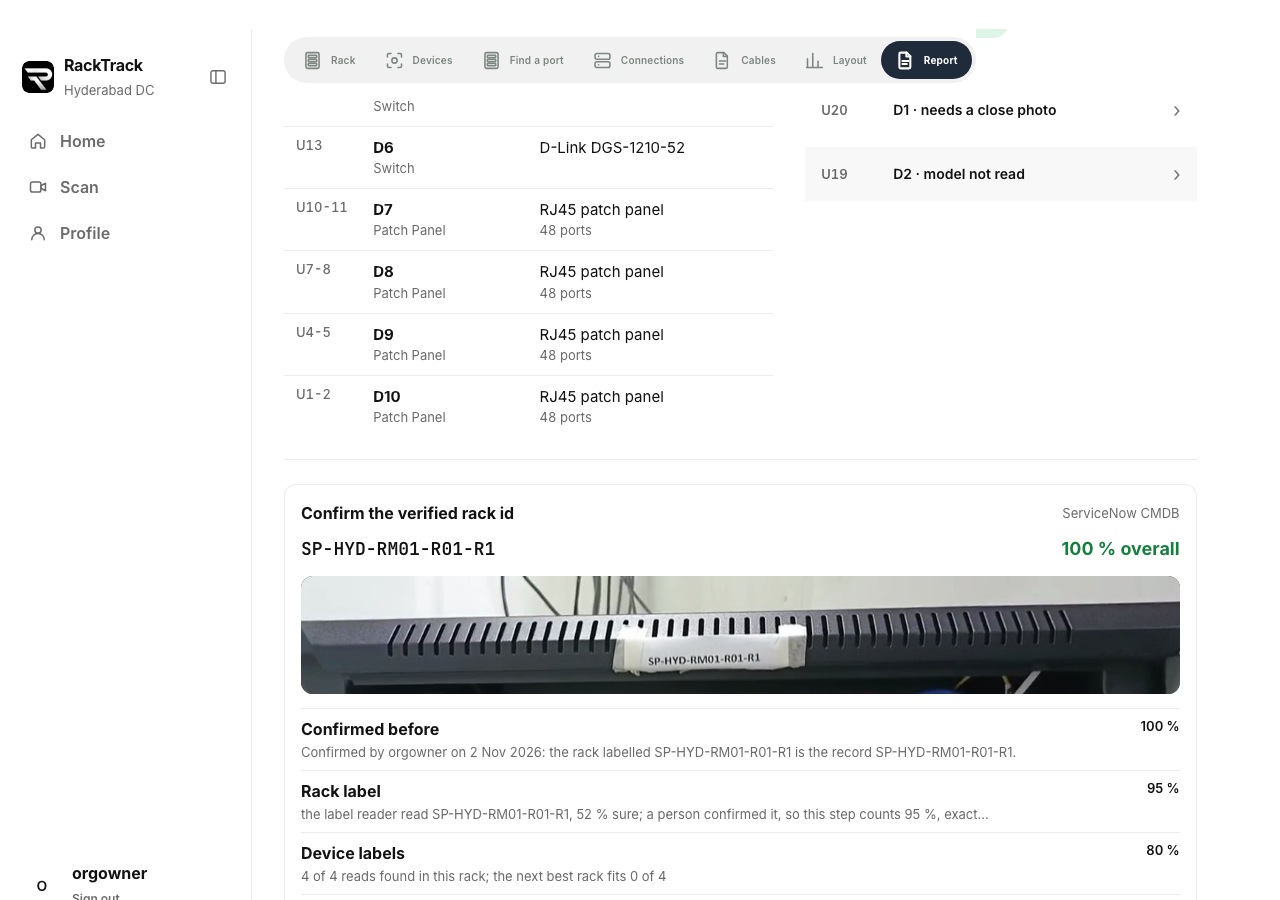
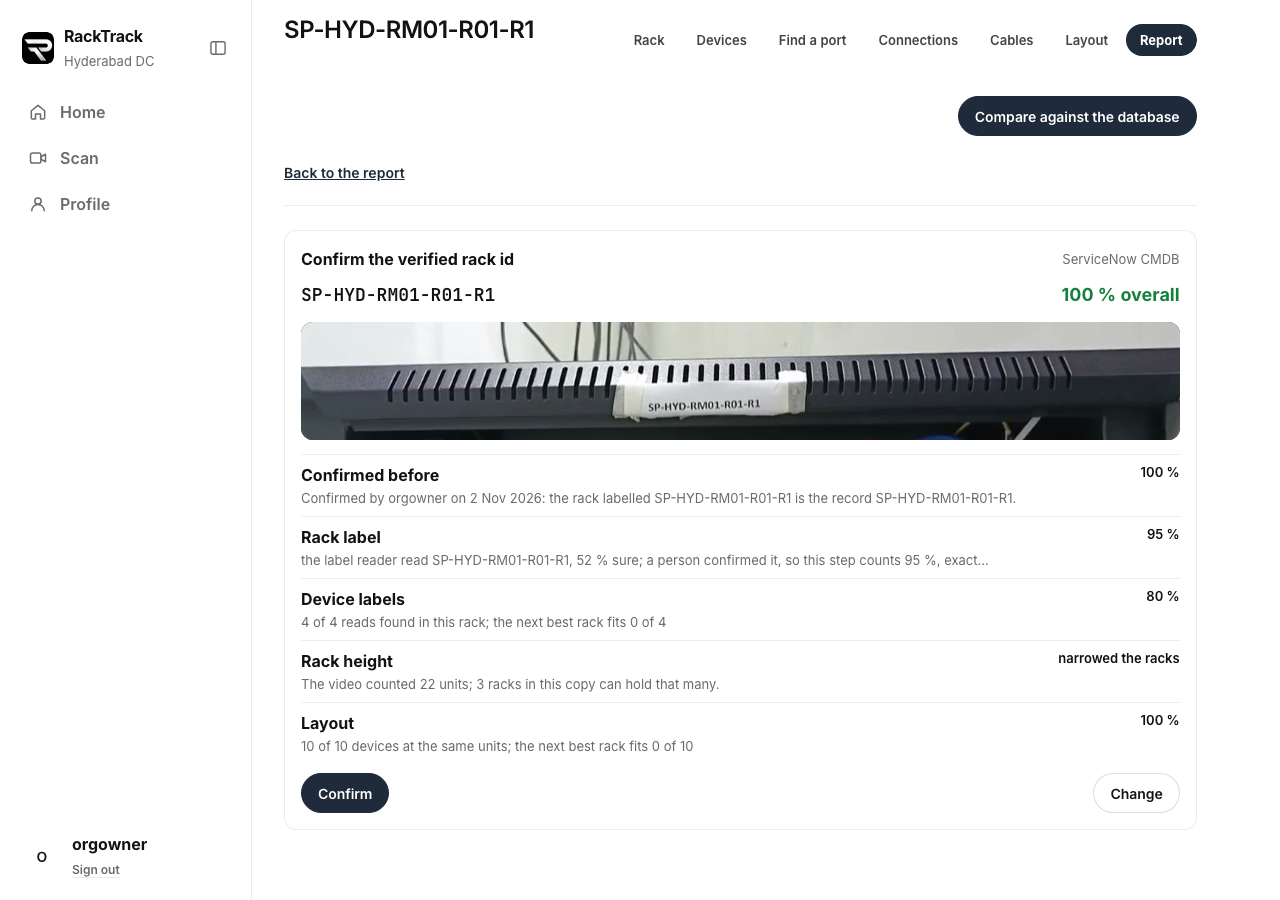
Compare takes over the top of the Report: the summary and device table step aside with a Back to the report link, the status line shows at once on the click, then the confirm panel and the drift, and the page scrolls to the top

diff --git a/mobile/app.js b/mobile/app.js
@@ -548,7 +548,7 @@
   function openResult(id, tab) {
     if (!id) return go('history');
     var fresh = RES.id !== id;
-    if (fresh) { RES.sel = null; RES.view = null; RES.pick = null; RES.labelAsked = null; RES.cmp = null; RES.cmpSrc = null; RES.cmpUi = 'idle'; RES.cmpPick = false; RES.diffMode = null; $('cmp-menu').hidden = true; $('sec-tools').hidden = true; $('df-top').innerHTML = ''; $('diff-top').innerHTML = ''; }
+    if (fresh) { RES.cmpUi = 'idle'; if (typeof cmpMode === 'function') cmpMode(false); RES.sel = null; RES.view = null; RES.pick = null; RES.labelAsked = null; RES.cmp = null; RES.cmpSrc = null; RES.cmpUi = 'idle'; RES.cmpPick = false; RES.diffMode = null; $('cmp-menu').hidden = true; $('sec-tools').hidden = true; $('df-top').innerHTML = ''; $('diff-top').innerHTML = ''; }
     RES.id = id; clearInterval(RES.timer); remember(id);
     RES.tab = tab; $('res-eyebrow').textContent = 'Result'; $('rep-full').hidden = NATIVE;   // only the open tab shows (data-tab)
     loadView(true);
@@ -917,6 +917,8 @@
   function loadDrift() { var id = RES.id; api('/api/video/' + id + '/drift').then(function (d) { if (RES.id === id) renderCompare(d); }).catch(function (e) { $('df-top').innerHTML = '<p class="err">' + esc(e.message) + '</p>'; }); }
   // one line under the compare button: a spinner while something runs, one sentence if it fails
   function cmpStatus(text, kind) { var el = $('cmp-status'); if (!el) return; if (!text) { el.hidden = true; el.innerHTML = ''; return; } el.hidden = false; el.className = 'cmpstatus ' + (kind || ''); el.setAttribute('role', kind === 'err' ? 'alert' : 'status'); el.innerHTML = (kind === 'err' ? '' : '<span class="spin" aria-hidden="true"></span>') + '<span>' + esc(text) + '</span>'; }
+  // while a database is being compared, the compare owns the top of the Report: the summary and device table step aside
+  function cmpMode(on) { var r = $('res-report'); if (!r) return; r.classList.toggle('cmp-on', !!on); $('cmp-back').hidden = !on; if (on) { cmpStatus('Starting...'); window.scrollTo(0, 0); } else { cmpStatus(''); $('df-top').innerHTML = ''; $('diff-top').innerHTML = ''; } }
   function setDb(body) { return api('/api/video/' + RES.id + '/database', { method: 'POST', headers: { 'Content-Type': 'application/json' }, body: JSON.stringify(body) }).then(function (d) { cmpStatus(''); renderCompare(d); return d; }).catch(function (e) { cmpStatus(String(e.message || 'The compare did not run.').replace(/\s*$/, '').replace(/([^.!?])$/, '$1.'), 'err'); }); }
   function copyWhen(d, s) { return d.imported[s] ? 'copy of ' + when(d.imported[s]) : 'no copy yet'; }
   var SRCLABEL = { excel: 'Excel workbook', netbox: 'NetBox', cmdb: 'ServiceNow CMDB' };
@@ -960,17 +962,17 @@
     if (d.drift.notes.length) h += '<details class="card"><summary>Not checked (' + d.drift.notes.length + ')</summary><ul class="muted small">' + d.drift.notes.map(function (n) { return '<li>' + esc(n) + '</li>'; }).join('') + '</ul></details>';
     el.innerHTML = h;
   }
-    document.addEventListener('click', function (e) { var t = e.target.closest && e.target.closest('#cmp-btn, #more-link, #cmp-change, [data-cmpsrc], #cmp-use, #cmp-continue, [data-cmppick], [data-dfmode]'); if (!t) return;
+    document.addEventListener('click', function (e) { var t = e.target.closest && e.target.closest('#cmp-btn, #cmp-back, #more-link, #cmp-change, [data-cmpsrc], #cmp-use, #cmp-continue, [data-cmppick], [data-dfmode]'); if (!t) return;
+    if (t.id === 'cmp-back') { e.preventDefault(); RES.cmpUi = 'idle'; cmpMode(false); window.scrollTo(0, 0); return; }
     if (t.id === 'cmp-btn') { var mn = $('cmp-menu'); mn.hidden = !mn.hidden; t.setAttribute('aria-expanded', String(!mn.hidden)); return; }
     if (t.id === 'more-link') { e.preventDefault(); var st = $('sec-tools'); st.hidden = !st.hidden; if (!st.hidden) { if (window.RTFEAT && !$('res-tools').children.length) window.RTFEAT.fillResult(RES.id); st.scrollIntoView({ block: 'nearest' }); } return; }
     if (t.id === 'cmp-change') { RES.cmpPick = !RES.cmpPick; renderCompare(RES.cmp); var ty0 = $('cmp-type'); if (ty0) ty0.focus(); return; }
     var src = RES.cmpSrc || (RES.cmp && RES.cmp.source) || 'excel';
     if (t.dataset.dfmode) { RES.diffMode = t.dataset.dfmode; return renderDiff(RES.cmp, true); }
-    if (t.dataset.cmpsrc) { src = t.dataset.cmpsrc; RES.cmpSrc = src; $('cmp-menu').hidden = true; $('cmp-btn').setAttribute('aria-expanded', 'false'); RES.cmpPick = false; RES.cmpUi = 'confirm';
+    if (t.dataset.cmpsrc) { src = t.dataset.cmpsrc; RES.cmpSrc = src; $('cmp-menu').hidden = true; $('cmp-btn').setAttribute('aria-expanded', 'false'); RES.cmpPick = false; RES.cmpUi = 'confirm'; cmpMode(true);
       var toCompare = function () { var el = $('sec-compare'); if (el && el.scrollIntoView) el.scrollIntoView({ block: 'start', behavior: 'smooth' }); };   // on a phone the panel opens below the report: go to it
-      cmpStatus('');
       if (RES.cmp && RES.cmp.imported[src]) { cmpStatus('Finding the rack...'); return Promise.resolve(setDb({ source: src })).then(toCompare); }
-      if (src === 'excel') { RES.cmpUi = 'idle'; toast('No workbook is copied in yet. Copy one in under Database copies.'); return go('copies'); }
+      if (src === 'excel') { RES.cmpUi = 'idle'; cmpMode(false); toast('No workbook is copied in yet. Copy one in under Database copies.'); return go('copies'); }
       cmpStatus('Copying in from ' + SRCLABEL[src] + '...');
       return api('/api/sources/' + src + '/import', { method: 'POST' }).then(function (r) { cmpStatus('Finding the rack...'); return Promise.resolve(setDb({ source: src })).then(toCompare); })
         .catch(function (er) { RES.cmpUi = 'idle'; cmpStatus(String(er.message || 'The copy did not work.').replace(/([^.!?])$/, '$1.'), 'err'); }); }

diff --git a/mobile/index.html b/mobile/index.html
@@ -15,7 +15,7 @@
 <link rel="preload" href="/app/fonts/inter-latin.woff2" as="font" type="font/woff2" crossorigin>
 <link rel="stylesheet" href="/app/app.css?v=127">
 <link rel="stylesheet" href="/app/rt/rt-topology.css?v=12">
-<link rel="stylesheet" href="/app/flow.css?v=15">
+<link rel="stylesheet" href="/app/flow.css?v=16">
 <link rel="stylesheet" href="/app/features.css?v=5"><!-- wt/features -->
 <style>
 /* the Drift tab: the database the run is checked against, the matched record, the differences */
@@ -269,6 +269,7 @@
     <div class="rpart" id="res-report">
       <div class="rpbar"><div class="cmpdd"><button class="btn primary" type="button" id="cmp-btn" aria-haspopup="true" aria-expanded="false">Compare against the database</button>
         <div class="ddmenu" id="cmp-menu" hidden><button type="button" data-cmpsrc="excel">Excel workbook</button><button type="button" data-cmpsrc="netbox">NetBox</button><button type="button" data-cmpsrc="cmdb">ServiceNow CMDB</button></div></div></div>
+      <a href="#" id="cmp-back" class="cmpback" hidden>Back to the report</a>
       <div id="cmp-status" class="cmpstatus" hidden></div>
       <div id="rp-top"></div>
       <div class="cmpsec" id="sec-compare"><div id="df-top"></div></div>
@@ -364,7 +365,7 @@
 <div id="lb" hidden><img id="lbimg" alt=""><span>tap to close</span></div>
 <script src="/app/topology.js?v=1"></script>
 <script src="/app/rt/rt-topology.js?v=12" defer></script>
-<script src="/app/app.js?v=156"></script>
+<script src="/app/app.js?v=157"></script>
 <script src="/app/features.js?v=7"></script><!-- wt/features -->
 </body>
 </html>

diff --git a/mobile/flow.css b/mobile/flow.css
@@ -287,3 +287,8 @@ h1, h2, b, .rkrow2 b, .fx-body, .fx-row span { overflow-wrap:anywhere; }
   #rnav.inpage .pill a:hover:not(.on) { background:#f1f2f4; }
   #rnav.inpage .pill a.on { background:#1f2a3a; color:#fff; }
 }
+
+/* compare mode: the compare takes the top of the Report */
+#res-report.cmp-on > #rp-top, #res-report.cmp-on > #res-others, #res-report.cmp-on > #sec-tools { display:none !important; }
+.cmpback { display:inline-block; margin:12px 0 0; font-size:14px; font-weight:600; color:#1f2a3a; text-decoration:underline; }
+.cmpback[hidden] { display:none; }

diff --git a/tools/proof_compare_sources.py b/tools/proof_compare_sources.py
@@ -30,13 +30,17 @@ def main():
             if src != "excel":
                 pg.route("**/drift", no_copy); pg.route("**/api/sources/*/import", slow)
             pg.goto(ENGINE + "/app/#result/" + RUN + "/report"); pg.reload(); pg.wait_for_timeout(3500)
-            pg.click("#cmp-btn"); pg.click(f'[data-cmpsrc="{src}"]')
+            pg.click("#cmp-btn"); pg.evaluate("window.scrollTo(0, 400)"); pg.click(f'[data-cmpsrc="{src}"]')
+            pg.wait_for_timeout(100)
+            if pg.evaluate("scrollY") > 5 or (src != "excel" and not pg.is_visible("#cmp-status")) or pg.is_visible("#rp-top") or not pg.is_visible("#cmp-back"):
+                bad.append(f"{src}: compare did not take over the top within 100 ms")
             if src != "excel":
                 pg.wait_for_timeout(500)
                 t = pg.inner_text("#cmp-status")
                 if "Copying in" not in t: bad.append(f"{src}: no loading line, got {t!r}")
                 pg.screenshot(path=str(OUT / f"compare_{src}_1_loading.png"))
             pg.wait_for_selector("#cmp-continue", timeout=30000)
+            if pg.evaluate("document.getElementById('df-top').getBoundingClientRect().top") > 400: bad.append(f"{src}: confirm panel not near the top")
             pg.screenshot(path=str(OUT / f"compare_{src}_2_confirm.png"))
             pg.click("#cmp-continue"); pg.wait_for_selector("#diff-top .card", timeout=30000); pg.wait_for_timeout(500)
             print(src, "drift:", pg.inner_text("#diff-top .card p")[:90].replace("\n", " "))
